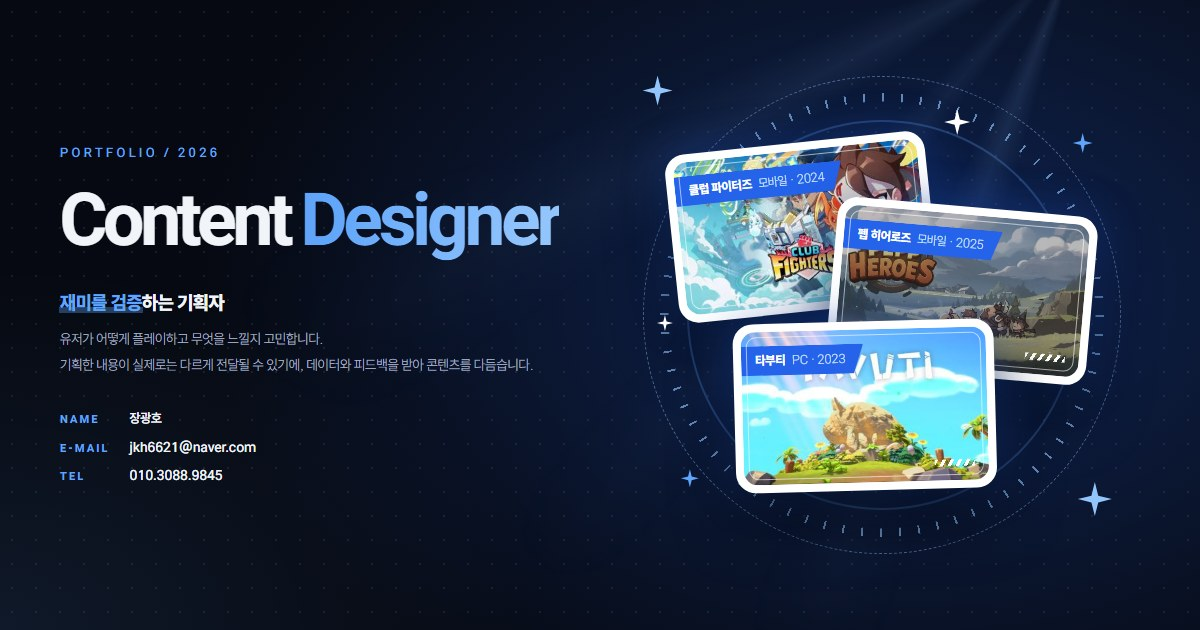
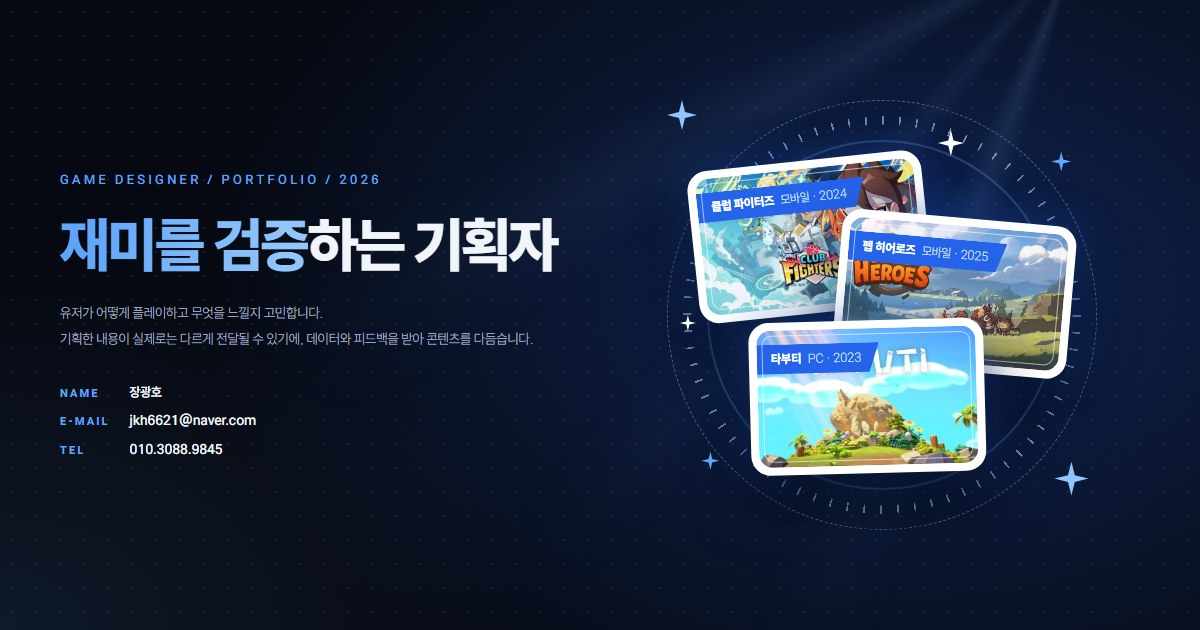
소개: Scroll 안내 추가, 펩 히어로즈 밝은 원본으로 교체, 카드 누르면 상세 팝업
- 표지 아래 마우스 Scroll 안내 (이력서로 이동)
- 펩 히어로즈 카드 이미지를 어둡게 만든 옛 슬라이드용 대신 밝은 원본(p-pep-key.jpg)으로
- 카드 오른쪽 아래 사선 줄무늬 삭제
- 카드 3장을 버튼으로: 누르면 프로젝트&기획서의 같은 프로젝트 팝업
- 링크 미리보기 이미지 다시 만듦 (style v27, main v13)

diff --git a/assets/css/style.css b/assets/css/style.css
@@ -111,7 +111,7 @@ a { color: inherit; text-decoration: none; }
   min-height: 100svh;
   display: grid;
   align-items: center;
-  padding: clamp(84px, 11vh, 116px) clamp(16px, 5vw, 96px) clamp(20px, 4vh, 44px);
+  padding: clamp(84px, 11vh, 116px) clamp(16px, 5vw, 96px) 104px; /* 아래: Scroll 안내 자리 */
   color: var(--ink);
   background:
     radial-gradient(1100px 760px at 76% 46%, rgba(37, 99, 235, .3), transparent 65%),
@@ -158,21 +158,23 @@ a { color: inherit; text-decoration: none; }
    __visual = 정사각형 칸(오른쪽 칸보다 4%씩 양옆으로 넓음), 고리가 칸을 꽉 채움.
    __stack = 카드 묶음(가로 : 세로 1.2 : 1)을 칸 폭의 88%로 가운데에 → 카드 둘레로 고리가 보임.
    카드 위치 · 크기는 __stack 기준 %라 묶음 크기를 바꿔도 카드끼리 겹치는 모양은 그대로 */
-.intro__visual { position: relative; justify-self: center; width: min(108%, 76vh, 720px); aspect-ratio: 1; }
+.intro__visual { position: relative; justify-self: center; width: min(108%, 76vh, calc(100vh - 200px), 720px); aspect-ratio: 1; }
 .intro__halo { position: absolute; inset: 0; border: 1px dashed rgba(147, 197, 253, .45); border-radius: 50%; }
 .intro__halo::before { content: ""; position: absolute; inset: 3.5%; border-radius: 50%; background: repeating-conic-gradient(rgba(147, 197, 253, .65) 0 .5deg, transparent .5deg 5deg);
   -webkit-mask: radial-gradient(farthest-side, transparent calc(100% - 9px), #000 calc(100% - 8px)); mask: radial-gradient(farthest-side, transparent calc(100% - 9px), #000 calc(100% - 8px)); }
 .intro__halo::after { content: ""; position: absolute; inset: 9%; border: 2px solid rgba(96, 165, 250, .28); border-radius: 50%; background: radial-gradient(closest-side, rgba(37, 99, 235, .28), transparent); }
 .intro__stack { position: absolute; left: 50%; top: 50%; width: 88%; aspect-ratio: 1.2; transform: translate(-50%, -50%); }
-.intro__card { position: absolute; width: 62%; max-width: 460px; margin: 0; padding: 8px; background: #fff; border-radius: 20px; box-shadow: 0 28px 60px rgba(0, 0, 0, .55), 0 0 44px rgba(37, 99, 235, .35);
-  transform: rotate(var(--r)); animation: intro-float 6s ease-in-out infinite; }
+/* 카드 = 버튼: 누르면 같은 프로젝트의 상세 팝업 (main.js). 마우스를 올리면 흔들림을 멈추고 파란 테두리 */
+.intro__card { position: absolute; width: 62%; max-width: 460px; margin: 0; padding: 8px; font: inherit; text-align: left; color: inherit; background: #fff; border: 0; border-radius: 20px; cursor: pointer;
+  box-shadow: 0 28px 60px rgba(0, 0, 0, .55), 0 0 44px rgba(37, 99, 235, .35); transform: rotate(var(--r)); animation: intro-float 6s ease-in-out infinite; transition: box-shadow .2s; }
+.intro__card:hover,
+.intro__card:focus-visible { z-index: 3; animation-play-state: paused; outline: 0; box-shadow: 0 28px 60px rgba(0, 0, 0, .55), 0 0 0 3px var(--accent), 0 0 56px rgba(96, 165, 250, .6); }
 .intro__card img { display: block; width: 100%; height: auto; aspect-ratio: 16 / 10; object-fit: cover; border-radius: 14px; }
-/* 카드 장식: 이미지 안쪽 얇은 흰 테두리 + 오른쪽 아래 사선 줄무늬 */
+/* 카드 장식: 이미지 안쪽 얇은 흰 테두리 */
 .intro__card::after { content: ""; position: absolute; inset: 13px; border: 1px solid rgba(255, 255, 255, .6); border-radius: 10px; pointer-events: none; }
-.intro__card::before { content: ""; position: absolute; right: 22px; bottom: 22px; z-index: 1; width: 40px; height: 7px; background: repeating-linear-gradient(-60deg, #fff 0 3px, transparent 3px 7px); }
 /* 이름표: 이미지 위 왼쪽 위, 파란 사선 꼬리표 */
-.intro__card figcaption { position: absolute; left: 8px; top: 22px; padding: 5px 18px 5px 14px; font-size: 13px; font-weight: 800; line-height: 1.5; white-space: nowrap; color: #fff; background: var(--deep); clip-path: polygon(0 0, 100% 0, calc(100% - 10px) 100%, 0 100%); }
-.intro__card figcaption span { margin-left: 4px; font-weight: 300; color: #cfe1ff; }
+.intro__tag { position: absolute; left: 8px; top: 22px; padding: 5px 18px 5px 14px; font-size: 13px; font-weight: 800; line-height: 1.5; white-space: nowrap; color: #fff; background: var(--deep); clip-path: polygon(0 0, 100% 0, calc(100% - 10px) 100%, 0 100%); }
+.intro__tag span { margin-left: 4px; font-weight: 300; color: #cfe1ff; }
 /* 겹침 순서: 1번째 = 맨 뒤(왼쪽 위) → 2번째 = 중간(오른쪽) → 3번째 = 맨 앞(아래 가운데) */
 .intro__card:nth-child(1) { left: 0; top: 1%; --r: -6deg; }
 .intro__card:nth-child(2) { right: 0; top: 19%; z-index: 1; --r: 5deg; animation-delay: -2s; }
@@ -199,8 +201,8 @@ a { color: inherit; text-decoration: none; }
   .intro__eyebrow { font-size: 12px; letter-spacing: .14em; } /* 360px에서도 한 줄 */
   .intro__lead br { display: none; } /* 두 문장을 줄바꿈 없이 이어서 */
   .intro__stack { width: 100%; } /* 카드가 너무 작아지지 않게 */
-  .intro__card figcaption { top: 18px; font-size: 12px; }
-  .intro__card figcaption span { display: none; }
+  .intro__tag { top: 18px; font-size: 12px; }
+  .intro__tag span { display: none; }
   .intro__visual i:nth-of-type(n) { --s: 16px; } /* nth-of-type(n): 위 별마다 정한 크기보다 우선하도록 같은 무게로 */
   .intro__actions { flex-direction: column; align-items: flex-start; }
   .intro__actions .btn { width: min(280px, 100%); }

diff --git a/index.html b/index.html
@@ -22,8 +22,8 @@
   <link rel="preload" href="assets/fonts/Freesentation-6SemiBold.woff2" as="font" type="font/woff2" crossorigin>
   <link rel="preload" href="assets/fonts/Freesentation-8ExtraBold.woff2" as="font" type="font/woff2" crossorigin>
   <!-- ?v= : CSS·JS를 고칠 때마다 숫자를 1씩 올릴 것 (방문자 브라우저에 저장된 옛 파일 대신 새 파일을 받게 함) -->
-  <link rel="stylesheet" href="assets/css/style.css?v=26">
-  <script src="assets/js/main.js?v=12" defer></script>
+  <link rel="stylesheet" href="assets/css/style.css?v=27">
+  <script src="assets/js/main.js?v=13" defer></script>
 </head>
 <body>
   <header class="site-header">
@@ -38,7 +38,8 @@
   <main>
     <!-- 소개: 표지 + About Me를 한 화면으로 합침 (2026-11-13 개편. 표지는 어두운 버전만 사용).
          왼쪽 = 작은 줄 "GAME DESIGNER / PORTFOLIO / 2026" → 큰 문구 "재미를 검증하는 기획자"(한 줄) → 소개 2문장 → NAME · E-MAIL · TEL(값은 이력서 PDF와 같음, 복사 버튼) → 다운로드 버튼 2개
-         오른쪽 = 떠다니는 프로젝트 카드 3장 (맨 앞 타부티 → 중간 펩 히어로즈 → 맨 뒤 클럽 파이터즈) + 뒤 고리 + 반짝임. 장식이라 화면낭독에서는 숨김
+         오른쪽 = 떠다니는 프로젝트 카드 3장 (맨 앞 타부티 → 중간 펩 히어로즈 → 맨 뒤 클럽 파이터즈) + 뒤 고리 + 반짝임(장식, 화면낭독에서 숨김).
+                  카드 = 버튼. 누르면 아래 프로젝트&기획서의 같은 프로젝트 상세 팝업이 열림 (data-work = 그 카드의 id, main.js)
          &nbsp; = 휴대폰 · 1024px에서 낱말 하나만 줄 끝에 남지 않게 묶음. 연락처 섹션은 삭제하고 이 화면의 E-MAIL · TEL로 대신함 -->
     <section class="intro" id="about" aria-labelledby="intro-title">
       <div class="intro__inner">
@@ -64,16 +65,20 @@
           </div>
         </div>
 
-        <div class="intro__visual" aria-hidden="true">
-          <div class="intro__halo"></div>
+        <div class="intro__visual">
+          <div class="intro__halo" aria-hidden="true"></div>
           <div class="intro__stack">
-            <figure class="intro__card"><img src="assets/works/p-club.jpg" alt="" width="419" height="236"><figcaption>클럽 파이터즈 <span>모바일 · 2024</span></figcaption></figure>
-            <figure class="intro__card"><img src="assets/cover/04.jpg" alt="" width="875" height="492"><figcaption>펩 히어로즈 <span>모바일 · 2025</span></figcaption></figure>
-            <figure class="intro__card"><img src="assets/works/p-tavuti.jpg" alt="" width="457" height="257"><figcaption>타부티 <span>PC · 2023</span></figcaption></figure>
+            <button class="intro__card" type="button" data-work="work-club" aria-label="클럽 파이터즈 상세 정보 보기"><img src="assets/works/p-club.jpg" alt="" width="419" height="236"><span class="intro__tag">클럽 파이터즈 <span>모바일 · 2024</span></span></button>
+            <button class="intro__card" type="button" data-work="work-pep" aria-label="펩 히어로즈 상세 정보 보기"><img src="assets/works/p-pep-key.jpg" alt="" width="875" height="492"><span class="intro__tag">펩 히어로즈 <span>모바일 · 2025</span></span></button>
+            <button class="intro__card" type="button" data-work="work-tavuti" aria-label="타부티 상세 정보 보기"><img src="assets/works/p-tavuti.jpg" alt="" width="457" height="257"><span class="intro__tag">타부티 <span>PC · 2023</span></span></button>
           </div>
-          <i></i><i></i><i></i><i></i><i></i><i></i>
+          <span aria-hidden="true"><i></i><i></i><i></i><i></i><i></i><i></i></span>
         </div>
       </div>
+      <a class="scroll-hint" href="#resume" aria-label="이력서로 이동">
+        <span aria-hidden="true">Scroll</span>
+        <span class="scroll-hint__mouse" aria-hidden="true"></span>
+      </a>
     </section>
 
     <!-- 이력서: 01_경력기술서.pdf 3쪽(프로필) 레이아웃, 밝은 배경 -->
@@ -186,7 +191,7 @@
       </div>
 
       <div class="works__grid">
-        <article class="work" data-kind="p">
+        <article class="work" data-kind="p" id="work-pep">
           <img class="work__img" src="assets/works/p-pep.jpg" alt="" loading="lazy">
           <div class="work__body">
             <p class="work__cat">프로젝트 · 모바일 · 2025</p>
@@ -245,7 +250,7 @@
           </template>
         </article>
 
-        <article class="work" data-kind="p">
+        <article class="work" data-kind="p" id="work-tavuti">
           <img class="work__img" src="assets/works/p-tavuti.jpg" alt="" loading="lazy">
           <div class="work__body">
             <p class="work__cat">프로젝트 · PC · 2023</p>
@@ -317,7 +322,7 @@
           </template>
         </article>
 
-        <article class="work" data-kind="p">
+        <article class="work" data-kind="p" id="work-club">
           <img class="work__img" src="assets/works/p-club.jpg" alt="" loading="lazy">
           <div class="work__body">
             <p class="work__cat">프로젝트 · 모바일 · 2024</p>

diff --git a/assets/js/main.js b/assets/js/main.js
@@ -96,6 +96,10 @@ modal.querySelector('.modal__close').addEventListener('click', closeModal);
 modal.addEventListener('click', (e) => { if (e.target === modal) closeModal(); }); // 바깥 어두운 곳
 // Esc 키. close 이벤트는 늦게 올 수 있어, 그사이 다른 카드를 열었으면 비우지 않음
 modal.addEventListener('close', () => { if (!modal.open) modalContent.replaceChildren(); });
+// 소개의 프로젝트 카드: 아래 프로젝트&기획서에서 같은 프로젝트(data-work = 카드 id)의 상세 팝업을 엶
+document.querySelectorAll('[data-work]').forEach((b) => b.addEventListener('click', () => {
+  document.getElementById(b.dataset.work).querySelector('.work__more').click();
+}));
 
 // 기획서 · 이력서 PDF 다운로드: download 속성을 무시하고 PDF를 미리 보기로 여는 브라우저가 있어,
 // 파일을 받아 "내려받기 전용" 형식으로 바꾼 뒤 저장. 실패하면 원래 링크로 이동
